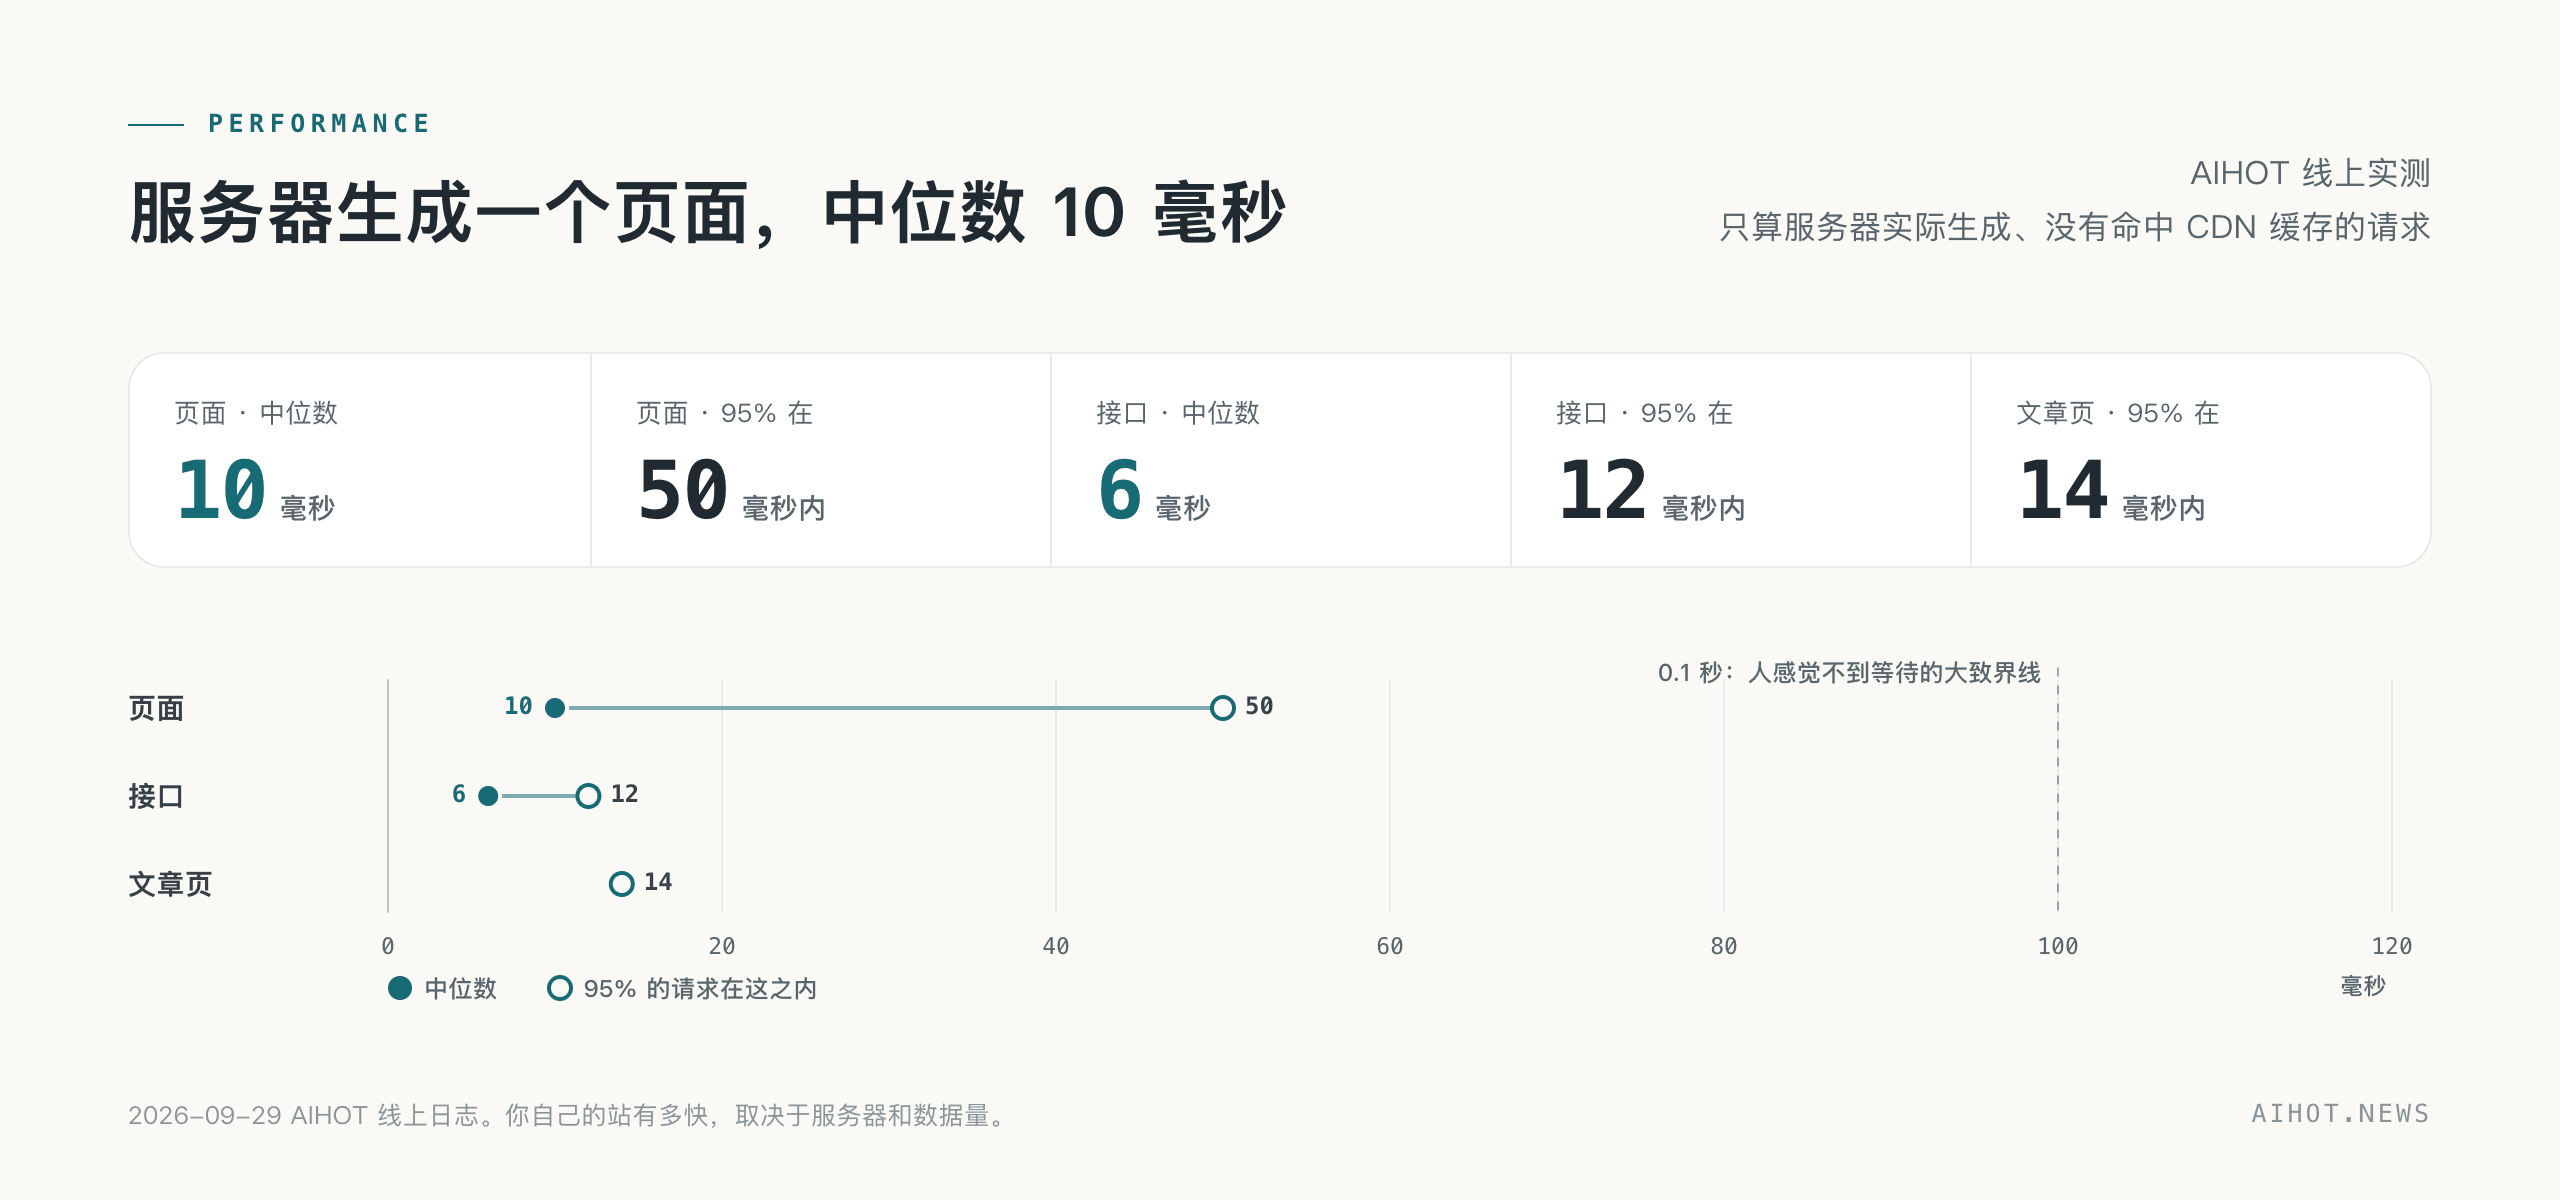
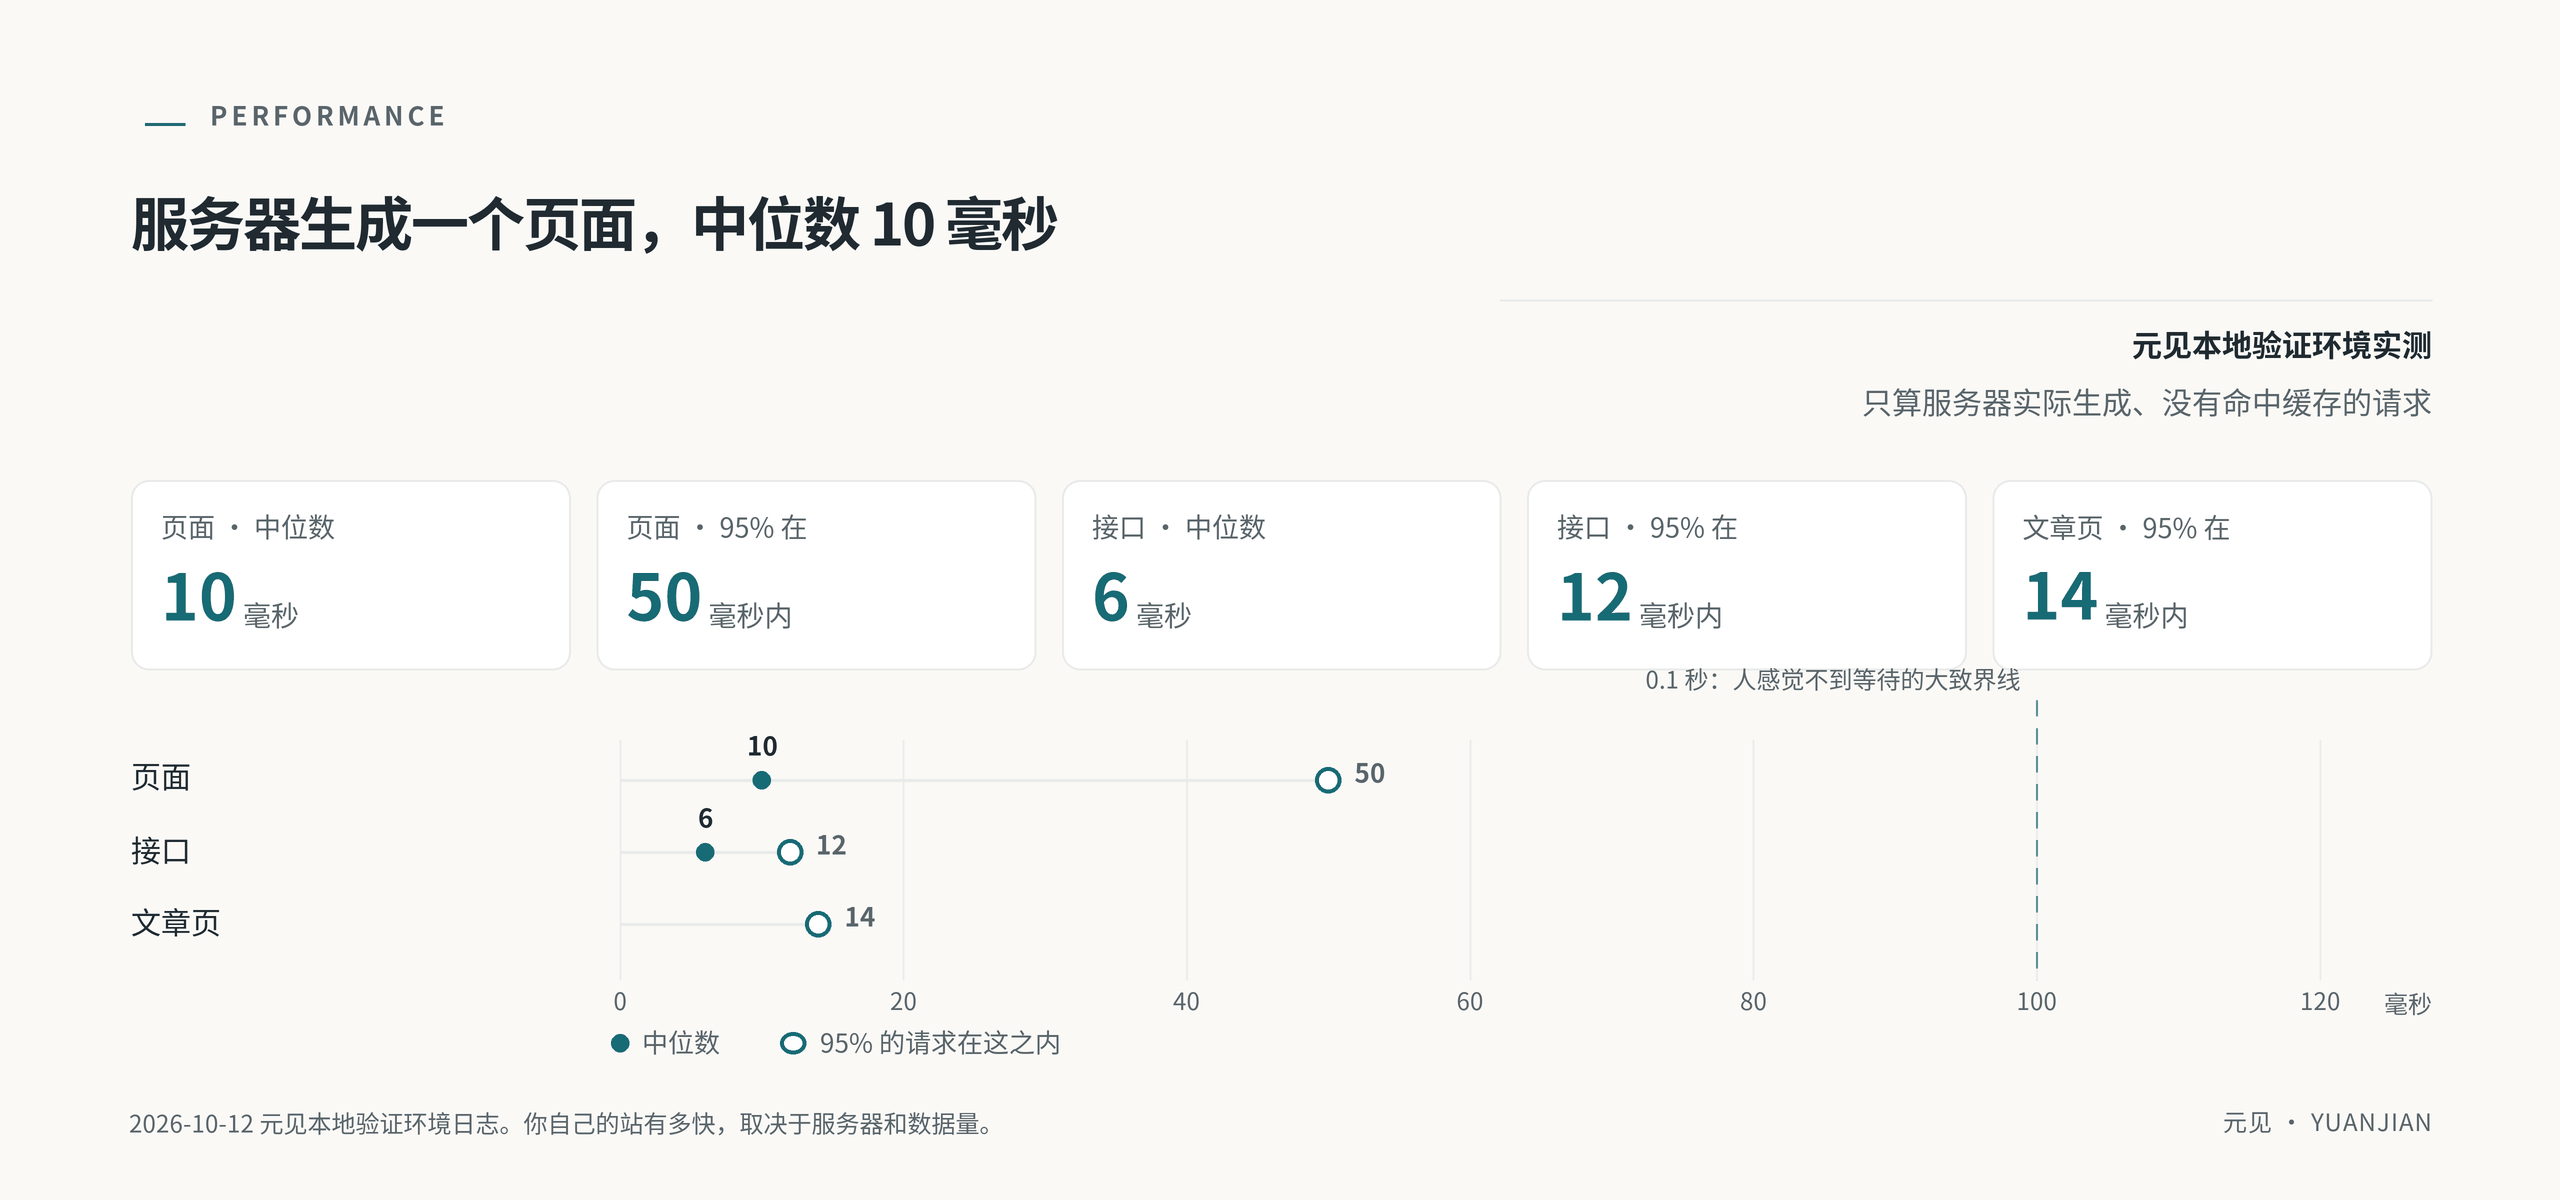
docs: rework brand assets to remove upstream traces
- 重制 banner/perf/shots 六张配图，去除图片中的 AIHOT/MyHOT 残留
- 配图沿用站点配色与 Noto Sans SC，文案取自 site/site.ts
- README.md / README.en.md 的配图说明改为「界面示意」，与重制图对齐

diff --git a/README.en.md b/README.en.md
@@ -97,7 +97,7 @@ The same thing happens once: the official site posts it, ten outlets repeat it, 
   <img src="docs/assets/shots-light.png" alt="The daily selection on the home page, and the river of sources on the about page" width="100%">
 </picture>
 
-<p align="center"><sub>Screenshots from the Yuanjian local validation environment; the current interface supports topic onboarding, intelligence trial reading and the full information feed.</sub></p>
+<p align="center"><sub>Interface illustration: the daily selection on the home page and the river of sources on the about page. Once your site is running, replace these with your own screenshots.</sub></p>
 
 ## Run it
 

diff --git a/README.md b/README.md
@@ -96,7 +96,7 @@
   <img src="docs/assets/shots-light.png" alt="首页的每日精选，关于页的信源河" width="100%">
 </picture>
 
-<p align="center"><sub>截图来自元见本地验证环境；当前界面支持首次主题选择、情报试读和完整信息流。</sub></p>
+<p align="center"><sub>界面示意：首页的每日精选，以及关于页的信源河。站点跑起来以后，可以把这里换成你自己的截图。</sub></p>
 
 ## 跑起来
 
